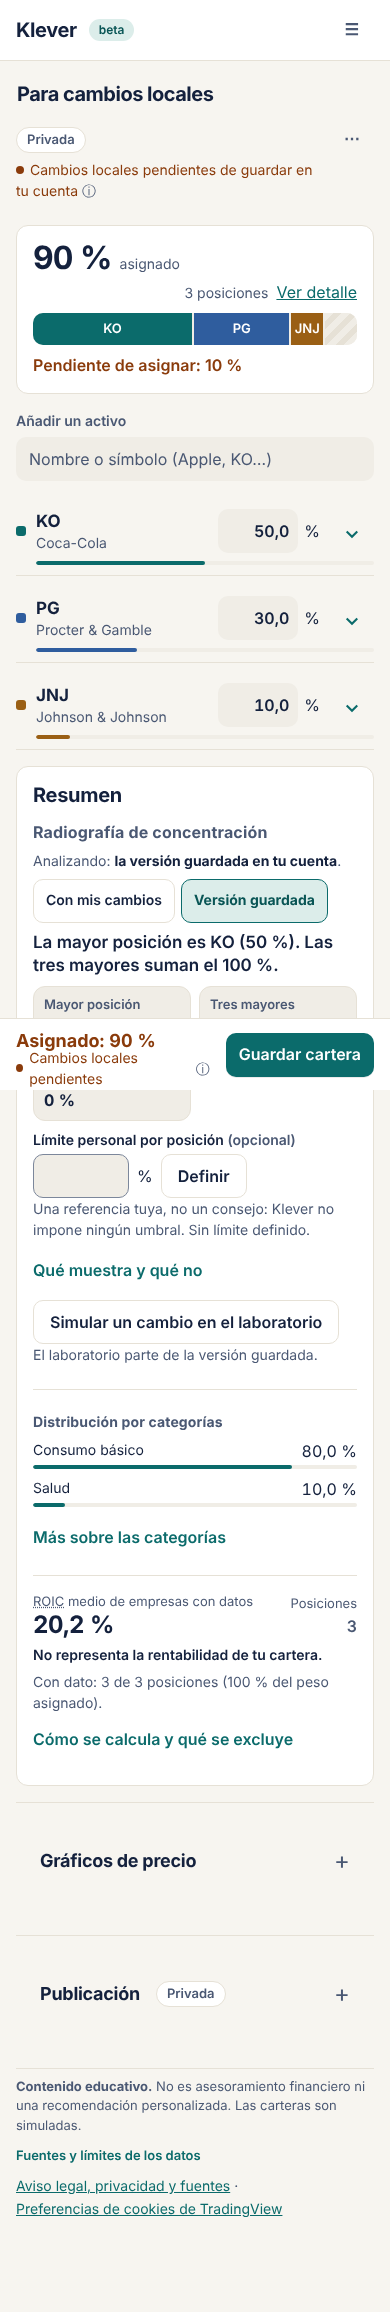
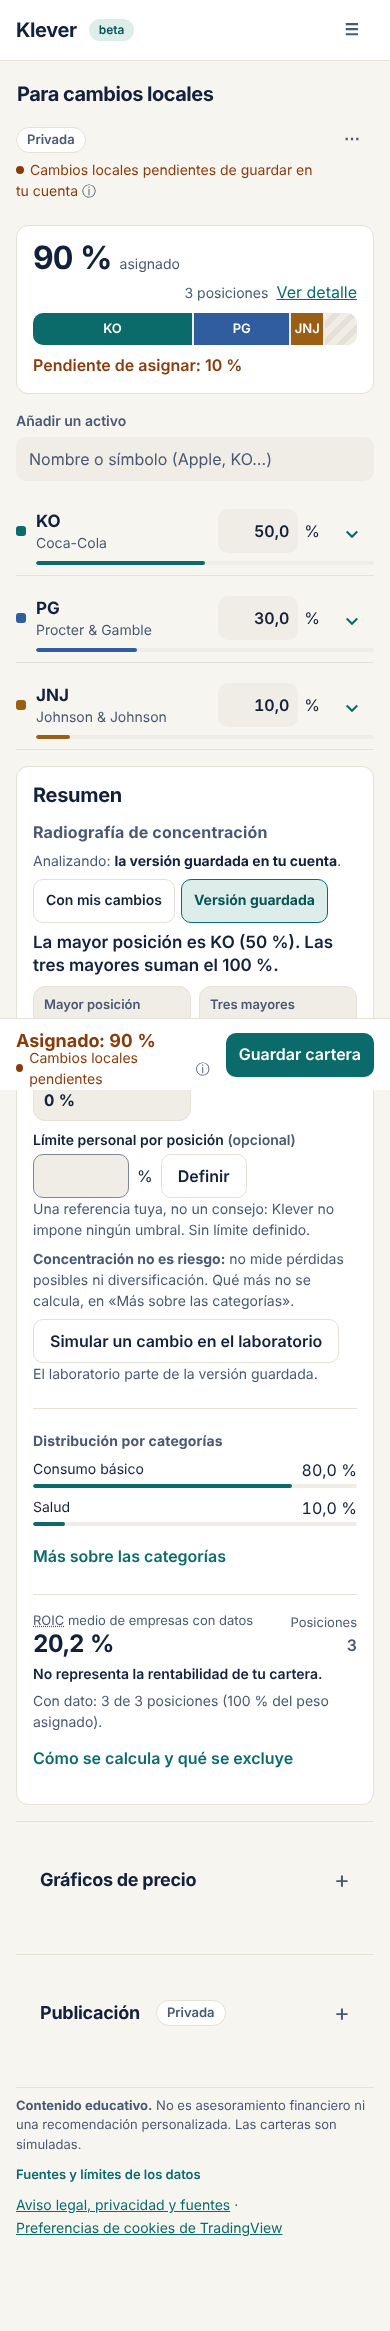
Ronda 13: radiografía sin desplegable extra, filtros que caben a 200 %, demo reconstruida y documentación de cálculos, datos, editorial y fases
Claude-Session: https://claude.ai/code/session_019RMtEMUMCDkBj91GhEPxiz

diff --git a/demo/index.html b/demo/index.html
@@ -775,6 +775,9 @@ input,select,textarea{border-radius:var(--radio-campo);border-color:var(--border
 }
 @media (max-width:480px){.tabla-lab th,.tabla-lab td{padding:8px 3px}.tabla-lab thead th{font-size:.6875rem}}
 .tabla-lab th,.tabla-lab td{white-space:normal}
+.emp-filtros label{min-width:0;max-width:100%} .emp-filtros select{box-sizing:border-box;max-width:100%;width:100%}
+@media (max-width:480px){.emp-filtros label:not(.chk){flex:1 1 100%}}
+@media (min-width:481px){.emp-filtros label:not(.chk){flex:0 1 14rem}}
 
 .demo-fallo{display:block;margin-top:8px;font-size:.875rem}
 .demo-banner{background:var(--warn-bg);color:var(--warn);border-radius:var(--r);padding:12px var(--s2);margin-bottom:var(--s2);font-size:.9375rem}
@@ -1059,6 +1062,7 @@ input,select,textarea{border-radius:var(--radio-campo);border-color:var(--border
           <details class="mini">
             <summary>Más sobre las categorías</summary>
             <p>Los ETF se agrupan por tipo; no se desglosan sus empresas.</p>
+            <p><b>Qué no calcula la radiografía:</b> no mide riesgo, volatilidad ni diversificación; no deduce países ni divisas del mercado de cotización; no calcula solapamientos entre fondos (no hay composiciones verificadas y fechadas); y una cartera incompleta se analiza tal cual, sin rellenarla ni reescalarla al 100 %.</p>
             <p>Cada activo se agrupa por su categoría: el sector si es una empresa o el tipo de fondo si es un ETF. Por eso la lista mezcla sectores («Salud») con tipos de fondo («ETF dividendos»). No es la exposición sectorial de las empresas que hay dentro de los ETF, porque no se ha calculado.</p>
           </details>
           <div class="roic-bloque">
@@ -1684,10 +1688,7 @@ function pintarRadiografia() {
       <div><dt>${r.estado === 'exceso' ? 'Exceso' : 'Sin asignar'}</dt><dd>${P(r.estado === 'exceso' ? r.exceso : r.pendiente)}</dd></div></dl>`}
     ${sup ? `<ul class="radio-sup">${sup}</ul>` : ''}${limite}
     ${cobertura.length ? `<p class="radio-cob">${cobertura.join(' ')}</p>` : ''}
-    <details class="mini"><summary>Qué muestra y qué no</summary>
-      <p>Muestra cuánto pesa lo más grande de tu reparto. <b>Concentración no es riesgo</b>: no mide volatilidad, pérdidas posibles ni diversificación.</p>
-      <p>Las categorías de los fondos son comerciales (por ejemplo «ETF oro»), no la exposición real de lo que contienen. No se deducen países ni divisas, ni se calculan solapamientos entre fondos, porque no hay composiciones verificadas y fechadas.</p>
-      <p>Una cartera incompleta se analiza tal cual: no se rellena ni se reescala al 100 %.</p></details>
+    <p class="radio-nota peq mut"><b>Concentración no es riesgo:</b> no mide pérdidas posibles ni diversificación. Qué más no se calcula, en «Más sobre las categorías».</p>
     <p class="radio-acc"><button class="btn btn-secundario" type="button" id="radio-lab">Simular un cambio en el laboratorio</button></p>${dirty ? '<p class="mut peq">El laboratorio parte de la versión guardada.</p>' : ''}`;
   if (cont.dataset.sig === html) return;           // sin cambios: no se sustituye el DOM (un clic en curso no se pierde al salir el foco de un campo)
   cont.dataset.sig = html; cont.innerHTML = html;

diff --git a/public/js/lab.js b/public/js/lab.js
@@ -114,10 +114,7 @@ export function pintarRadiografia() {
       <div><dt>${r.estado === 'exceso' ? 'Exceso' : 'Sin asignar'}</dt><dd>${P(r.estado === 'exceso' ? r.exceso : r.pendiente)}</dd></div></dl>`}
     ${sup ? `<ul class="radio-sup">${sup}</ul>` : ''}${limite}
     ${cobertura.length ? `<p class="radio-cob">${cobertura.join(' ')}</p>` : ''}
-    <details class="mini"><summary>Qué muestra y qué no</summary>
-      <p>Muestra cuánto pesa lo más grande de tu reparto. <b>Concentración no es riesgo</b>: no mide volatilidad, pérdidas posibles ni diversificación.</p>
-      <p>Las categorías de los fondos son comerciales (por ejemplo «ETF oro»), no la exposición real de lo que contienen. No se deducen países ni divisas, ni se calculan solapamientos entre fondos, porque no hay composiciones verificadas y fechadas.</p>
-      <p>Una cartera incompleta se analiza tal cual: no se rellena ni se reescala al 100 %.</p></details>
+    <p class="radio-nota peq mut"><b>Concentración no es riesgo:</b> no mide pérdidas posibles ni diversificación. Qué más no se calcula, en «Más sobre las categorías».</p>
     <p class="radio-acc"><button class="btn btn-secundario" type="button" id="radio-lab">Simular un cambio en el laboratorio</button></p>${dirty ? '<p class="mut peq">El laboratorio parte de la versión guardada.</p>' : ''}`;
   if (cont.dataset.sig === html) return;           // sin cambios: no se sustituye el DOM (un clic en curso no se pierde al salir el foco de un campo)
   cont.dataset.sig = html; cont.innerHTML = html;

diff --git a/public/index.html b/public/index.html
@@ -287,6 +287,7 @@
           <details class="mini">
             <summary>Más sobre las categorías</summary>
             <p>Los ETF se agrupan por tipo; no se desglosan sus empresas.</p>
+            <p><b>Qué no calcula la radiografía:</b> no mide riesgo, volatilidad ni diversificación; no deduce países ni divisas del mercado de cotización; no calcula solapamientos entre fondos (no hay composiciones verificadas y fechadas); y una cartera incompleta se analiza tal cual, sin rellenarla ni reescalarla al 100 %.</p>
             <p>Cada activo se agrupa por su categoría: el sector si es una empresa o el tipo de fondo si es un ETF. Por eso la lista mezcla sectores («Salud») con tipos de fondo («ETF dividendos»). No es la exposición sectorial de las empresas que hay dentro de los ETF, porque no se ha calculado.</p>
           </details>
           <div class="roic-bloque">

diff --git a/public/style-r13.css b/public/style-r13.css
@@ -111,3 +111,6 @@
 }
 @media (max-width:480px){.tabla-lab th,.tabla-lab td{padding:8px 3px}.tabla-lab thead th{font-size:.6875rem}}
 .tabla-lab th,.tabla-lab td{white-space:normal}
+.emp-filtros label{min-width:0;max-width:100%} .emp-filtros select{box-sizing:border-box;max-width:100%;width:100%}
+@media (max-width:480px){.emp-filtros label:not(.chk){flex:1 1 100%}}
+@media (min-width:481px){.emp-filtros label:not(.chk){flex:0 1 14rem}}
